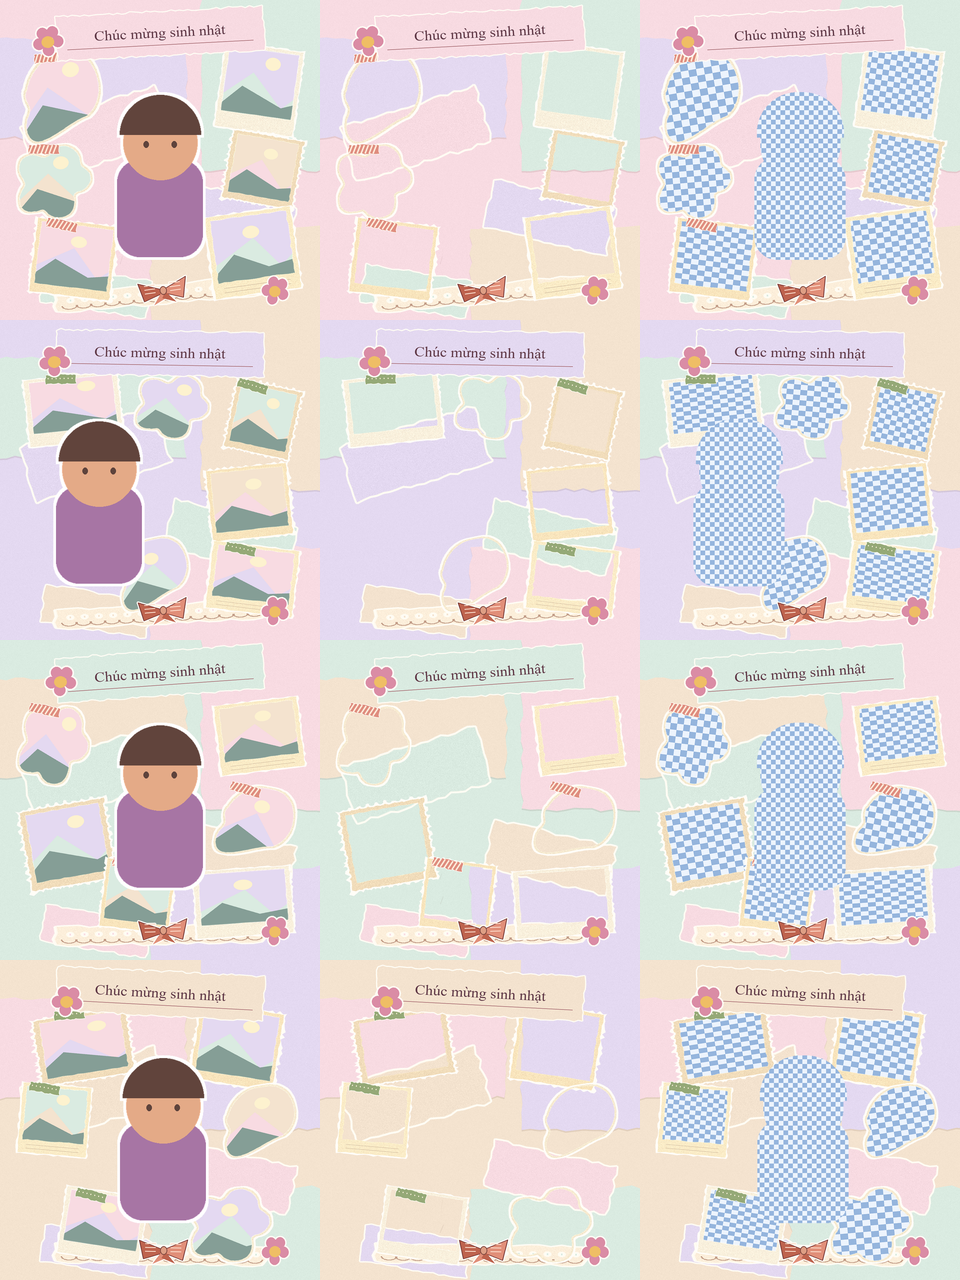
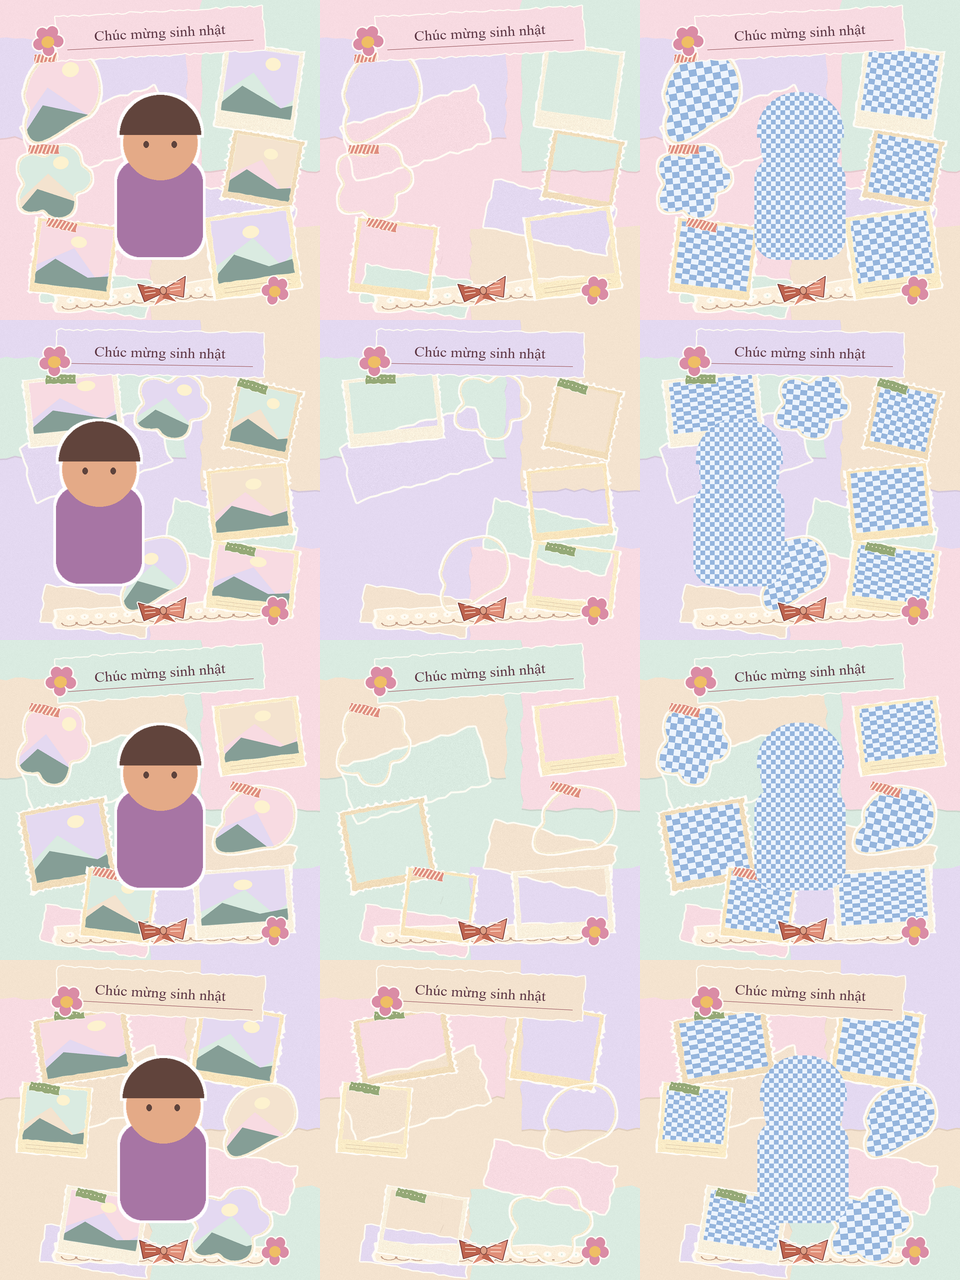
fix(tinix): keep demo C photo clear of the subject

Changed region(s): [[0.4062, 0.6562, 0.5312, 0.75], [0.0625, 0.6562, 0.1875, 0.75], [0.75, 0.6562, 0.8438, 0.75]]

diff --git a/scripts/tinix-mcp/generate_compositions.py b/scripts/tinix-mcp/generate_compositions.py
@@ -27,7 +27,7 @@ ILLUSTRATIONS = (*PHOTO_CODES, "SUBJECT")
 ARRANGEMENTS = (
     ((.19,.30,.27,.28,-10),(.81,.28,.26,.28,8),(.17,.57,.25,.24,-5),(.82,.53,.25,.24,10),(.23,.81,.28,.25,7),(.79,.79,.29,.27,-8)),
     ((.23,.28,.31,.22,-6),(.54,.27,.24,.21,5),(.82,.31,.23,.24,12),(.78,.57,.28,.24,-6),(.79,.81,.29,.22,7),(.48,.79,.24,.22,-12)),
-    ((.17,.33,.23,.26,7),(.21,.64,.30,.28,-10),(.43,.80,.24,.23,7),(.81,.30,.28,.23,-7),(.80,.57,.25,.24,11),(.76,.82,.32,.22,-4)),
+    ((.17,.33,.23,.26,7),(.21,.64,.30,.28,-10),(.37,.83,.24,.23,7),(.81,.30,.28,.23,-7),(.80,.57,.25,.24,11),(.76,.82,.32,.22,-4)),  # [TINIX] Keep C/F03 clear of the central cutout.
     ((.26,.27,.33,.23,-9),(.74,.27,.29,.26,9),(.17,.50,.23,.23,5),(.81,.50,.25,.22,-9),(.32,.83,.27,.22,9),(.72,.83,.27,.24,-5)),
     ((.20,.29,.28,.22,8),(.19,.51,.27,.22,-8),(.23,.76,.32,.26,6),(.48,.81,.22,.22,8),(.81,.67,.27,.24,-10),(.80,.35,.28,.27,5)),
     ((.25,.33,.34,.30,-8),(.68,.28,.26,.22,5),(.83,.48,.23,.23,9),(.21,.63,.24,.24,10),(.34,.84,.28,.20,-6),(.78,.79,.32,.26,-8)),

diff --git a/scripts/tinix-mcp/mixed_handcut_test.py b/scripts/tinix-mcp/mixed_handcut_test.py
@@ -137,6 +137,9 @@ class MixedHandcutTest(unittest.TestCase):
         self.assertEqual(len(audit["sentinels"]), 7)
         self.assertTrue(all(slot["outsideMaskPx"] == 0 and slot["changedPx"] > 0
                             for slot in audit["sentinels"].values()))
+        # The fixture's subject and accents should never hide over a quarter of an opening.
+        self.assertTrue(all(slot["visibleMaskPx"] >= .75*slot["onPageMaskPx"]
+                            for slot in audit["sentinels"].values()), audit["sentinels"])
         return {"demoId":code, "styleQa":geometry, "sourceQa":audit["status"], "sentinels":audit["sentinels"],
                 "pieces":qa["pieces"], "componentsByAlpha":qa["components_by_alpha"],
                 "minGapPx":qa["min_bounding_box_gap_px"], "jsonPixelMatch":qa["render_pixel_identical_from_json"],

diff --git a/scripts/tinix-mcp/evidence/p4-mixed-handcut/README.md b/scripts/tinix-mcp/evidence/p4-mixed-handcut/README.md
@@ -13,6 +13,7 @@ Lượt thử tạo bốn demo từ một bộ bảy ảnh tổng hợp. SUBJECT
 
 - Mỗi demo có sáu lỗ alpha=0 kín theo liên thông tám hướng. Hai lòng silhouette có tỷ lệ lấp hộp khoảng 75% và 69%, và mức sai khác trên vùng hợp khoảng 16,6% sau khi thử căn xoay, lật và chuẩn hóa cỡ. Giá trị này phục vụ kiểm hình học, không dùng để chấm bố cục.
 - Cả bốn tờ có 17 mảnh tại các ngưỡng alpha 1/8/16/24, khoảng hở hộp nguồn tối thiểu 22 px và ảnh dựng ngược từ JSON khớp pixel. Cả 28 sentinel đều thay được ảnh và có 0 pixel vượt mặt nạ.
+- Dịch F03 của demo C để phần lòng còn thấy tăng từ 62,0% lên 80,1% với SUBJECT của fixture. Cả 28 vùng thay ảnh giữ ít nhất 75% mặt nạ trong bố cục fixture.
 - Bộ kiểm hồi quy từ chối sprite duplicate đã xoay và đổi tỷ lệ, chữ nhật chỉ rung mép, lỗ alpha phụ và bộ thiếu Polaroid hoặc tem/ticket. Kiểm hợp đồng MCP từ chối visual pass khi source QA pass mà hình học fail.
 - Pilot cũ `51d29bc5-6d52-4734-a22a-3a4e9961e027` vẫn ở `awaiting_demo`, chưa có job. SHA-256 của bốn ZIP cũ vẫn khớp với khóa đã lưu. Ảnh F06 trong bộ pilot có bóng số 3 cần đổi sang ảnh trung tính nếu tuổi chưa được xác nhận.
 
